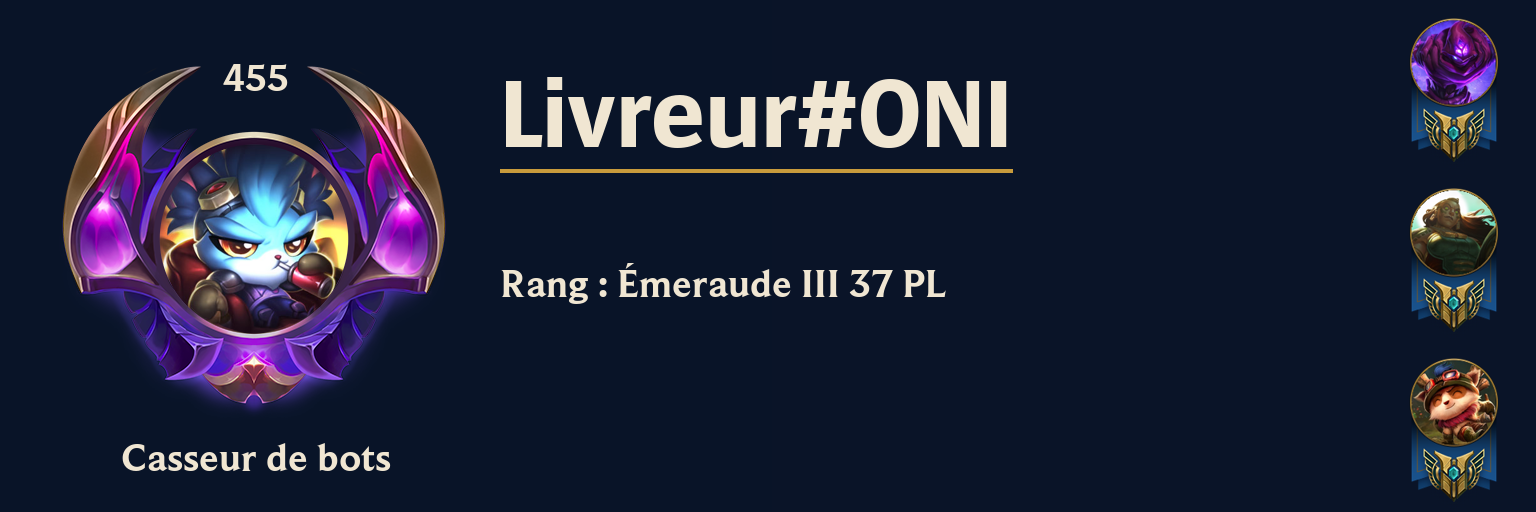
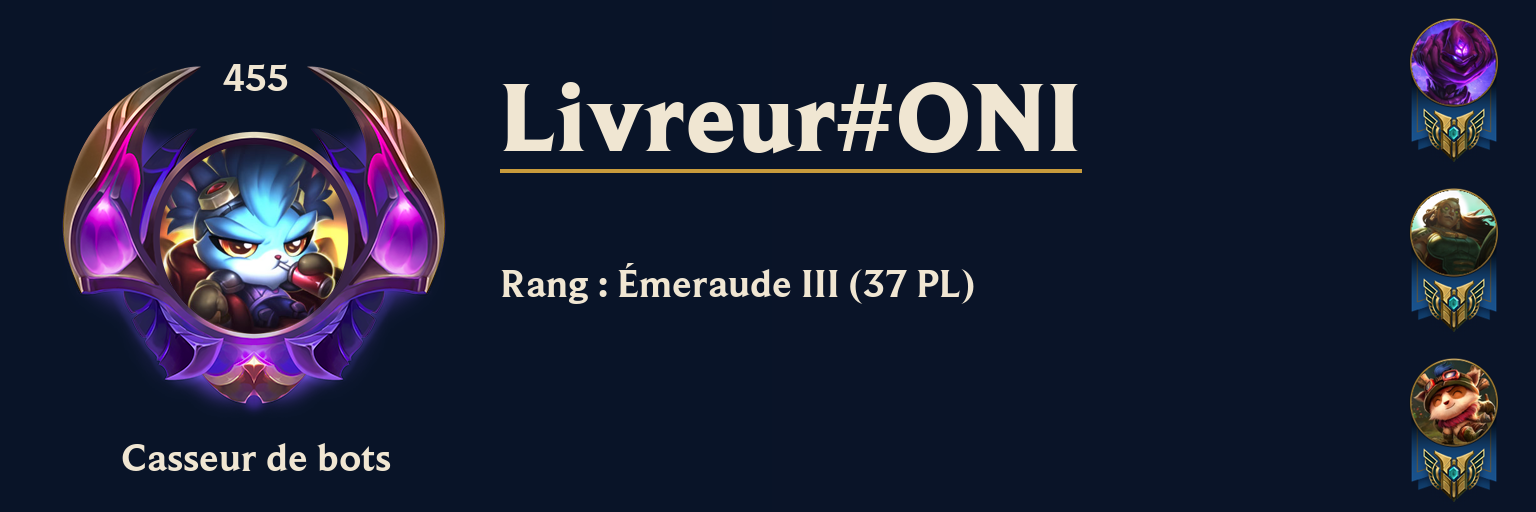
refact

Changed region(s): [[0.3125, 0.1562, 0.7188, 0.3438], [0.5312, 0.5312, 0.6562, 0.5938]]

diff --git a/LCG/views.py b/LCG/views.py
@@ -1,5 +1,7 @@
 import math
 import random
+
+from LCG import Exceptions
 from .app import app
 from flask import flash, render_template, redirect, url_for, send_file
 from flask import request,redirect, url_for
@@ -55,74 +57,66 @@ def home():
         form=f
     )
 
-@app.route('/image/<name>/<tag>.png')
-def cree_image(name,tag):
-    print(name,tag)
-    player,profil,challenges = get_data(name,tag)
-    
-    user_image = generate_image(player,profil,challenges)
-    
-    temp_image_path = f"static/league/{name}#{tag}.png"
-    user_image.save(temp_image_path)
-    
-    return send_file(temp_image_path, mimetype='image/png')
-
 @app.route("/shutdown", methods=['GET'])
 def shutdown():
     os.kill(os.getpid(), signal.SIGINT)
     return jsonify({ "success": True, "message": "Server is shutting down..." })
 
-def get_data(name,tag):
-    player_url = f"https://europe.api.riotgames.com/riot/account/v1/accounts/by-riot-id/{name}/{tag}?api_key={riot_key}"
-    response = requests.get(player_url)
-    player_data = response.json()
+@app.route('/image/<name>/<tag>.png')
+def cree_image(name:str,tag:str) -> Image:
+    print(name,tag)
+    riot,summoner,challenges = get_data(name,tag)
+    
+    user_image =  generate_image(riot,summoner,challenges)
+    
+    image_path = f"static/league/{riot['gameName']}#{riot['tagLine']}.png"
+    user_image.save(image_path)
+    
+    return send_file(image_path,mimetype='image/png')
 
-    profil_url = f"https://euw1.api.riotgames.com/lol/summoner/v4/summoners/by-puuid/{player_data['puuid']}?api_key={riot_key}"
-    response = requests.get(profil_url)
-    profil_data = response.json()
+def get_data(name:str,tag:str):
+    riot_url = f"https://europe.api.riotgames.com/riot/account/v1/accounts/by-riot-id/{name}/{tag}?api_key={riot_key}"
+    riot_data = requests.get(riot_url).json()
 
-    challenges_url = f"https://euw1.api.riotgames.com/lol/challenges/v1/player-data/{player_data['puuid']}?api_key={riot_key}"
-    response = requests.get(challenges_url)
-    challenges_data = response.json()
+    summoner_url = f"https://euw1.api.riotgames.com/lol/summoner/v4/summoners/by-puuid/{riot_data['puuid']}?api_key={riot_key}"
+    summoner_data = requests.get(summoner_url).json()
 
-    return player_data,profil_data,challenges_data
+    challenges_url = f"https://euw1.api.riotgames.com/lol/challenges/v1/player-data/{riot_data['puuid']}?api_key={riot_key}"
+    challenges_data = requests.get(challenges_url).json()
 
-def get_titre(id):
-    if id == "":
+    return riot_data,summoner_data,challenges_data
+
+def get_titre(id_titre) -> str:
+    if id_titre == "":
         return ""
     titres = requests.get("https://raw.communitydragon.org/latest/plugins/rcp-be-lol-game-data/global/fr_fr/v1/challenges.json").json()["titles"]
-    for t in titres:
-        if int(titres[t]['itemId']) == int(id):
-            return titres[t]['name']
-    return ""
+    for t in titres.values():
+        if t['itemId'] == int(id_titre):
+            return t['name']
+    raise Exceptions.TitrePasDansBD()
         
-def get_rang(id_joueur):
-    if id_joueur == "":
-        return "Non classé"
+def get_rang(id_joueur:int) -> str:
     classes = requests.get(f"https://euw1.api.riotgames.com/lol/league/v4/entries/by-summoner/{id_joueur}?api_key={riot_key}").json()
     for c in classes:
         if c['queueType'] == "RANKED_SOLO_5x5":
-            return f"{rang_trad[c['tier']]} {c['rank']} {c['leaguePoints']} PL"
+            return f"{rang_trad[c['tier']]} {c['rank']} ({c['leaguePoints']} PL)"
     return "Non classé"
 
-def round_image(image:Image, transparent:bool=False):
+def round_image(image:Image) -> Image:
     mask = Image.new("L", image.size, 0)
     draw = ImageDraw.Draw(mask)
     draw.ellipse((0, 0, image.width, image.height), fill=255)
-    if transparent:
-        result = Image.new("RGBA", image.size, (255,255,255,0))
-    else:
-        result = Image.new("RGB", image.size, (255,255,255))
+    result = Image.new("RGBA", image.size, (255,255,255,0))
     result.paste(image,mask=mask)
     return result
 
-def get_champions(id_joueur, limit=3):
+def get_champions(id_joueur:int, limit:int=3) -> list[Image.Image]:
     champions = requests.get(f"https://euw1.api.riotgames.com/lol/champion-mastery/v4/champion-masteries/by-summoner/{id_joueur}?api_key={riot_key}").json()[:limit]
     result = []
 
     for c in champions:
         lien = f"https://cdn.communitydragon.org/latest/champion/{c['championId']}/tile"
-        image_champ = round_image(Image.open(requests.get(lien, stream=True).raw).resize((105,105)),True)
+        image_champ = round_image(Image.open(requests.get(lien, stream=True).raw).resize((105,105)))
 
         lien = f"https://raw.communitydragon.org/latest/plugins/rcp-fe-lol-champion-details/global/default/cdp-prog-mastery-{c['championLevel']}.png"
         image_maitrise = Image.open(requests.get(lien, stream=True).raw)
@@ -135,7 +129,6 @@ def get_champions(id_joueur, limit=3):
     return result
 
 def generate_gradient(colour1: str, colour2: str, width: int, height: int) -> Image:
-    """Generate a vertical gradient."""
     left = Image.new('RGB', (width, height), colour1)
     right = Image.new('RGB', (width, height), colour2)
     mask = Image.new('L', (width, height))
@@ -143,23 +136,21 @@ def generate_gradient(colour1: str, colour2: str, width: int, height: int) -> Im
     for x in range(width):
         mask_data.append(int(255 * (x / width)))
     mask_data.extend(mask_data*(height-1))
-    print(len(mask_data))
     mask.putdata(mask_data)
     left.paste(right, (0, 0), mask)
     return left
 
-def generate_image(player_data,profil_data,challenges_data):
-    
+def generate_image(riot_data:dict,summoner_data:dict,challenges_data:dict) -> Image:
+    beaufort = ImageFont.truetype("static/fonts/BeaufortForLoL-TTF/BeaufortforLOL-Bold.ttf", 40)
+    beaufort_titre = ImageFont.truetype("static/fonts/BeaufortForLoL-TTF/BeaufortforLOL-Heavy.ttf", 100)
+
     width, height = (1536, 512)
     image = generate_gradient("#091428","#0A1428",width,height)
     draw = ImageDraw.Draw(image)
-    
-    arialrounded = ImageFont.truetype("static/fonts/BeaufortForLoL-TTF/BeaufortforLOL-Bold.ttf", 40)
-    impact = ImageFont.truetype("static/fonts/Spiegel-TTF/Spiegel_TT_Bold.ttf", 100)
-    
-    url_icone = f"https://cdn.communitydragon.org/latest/profile-icon/{profil_data['profileIconId']}"
+
+    url_icone = f"https://cdn.communitydragon.org/latest/profile-icon/{summoner_data['profileIconId']}"
     icone = Image.open(requests.get(url_icone, stream=True).raw)
-    icone = round_image(icone.resize((190,190)),True)
+    icone = round_image(icone.resize((190,190)))
     image.paste(icone,(159,144),icone)
 
     url_bordure = f"https://raw.communitydragon.org/latest/plugins/rcp-fe-lol-static-assets/global/default/images/uikit/themed-borders/theme-{math.floor(challenges_data['preferences']['prestigeCrestBorderLevel']//25)+1}-border.png"
@@ -167,20 +158,20 @@ def generate_image(player_data,profil_data,challenges_data):
     image.paste(bordure,(0,0),bordure)
 
     titre = f"{get_titre(challenges_data['preferences']['title'])}"
-    draw.text((256-draw.textlength(titre, arialrounded)/2, 430), titre, fill="#F0E6D2", align="center", font=arialrounded)
+    draw.text((256-draw.textlength(titre, beaufort)/2, 430), titre, fill="#F0E6D2", align="center", font=beaufort)
 
-    niveau = f"{profil_data['summonerLevel']}"
-    draw.text((256-draw.textlength(niveau, arialrounded)/2, 50), niveau, fill="#F0E6D2", font=arialrounded)
+    niveau = f"{summoner_data['summonerLevel']}"
+    draw.text((256-draw.textlength(niveau, beaufort)/2, 50), niveau, fill="#F0E6D2", font=beaufort)
 
-    pseudo = f"{player_data['gameName']}#{player_data['tagLine']}"
-    draw.text((500, 50), pseudo, fill="#F0E6D2", font=impact)
+    pseudo = f"{riot_data['gameName']}#{riot_data['tagLine']}"
+    draw.text((500, 50), pseudo, fill="#F0E6D2", font=beaufort_titre)
 
-    draw.text((500, 256), f"Rang : {get_rang(profil_data['id'])}", fill="#F0E6D2", font=arialrounded)
+    draw.text((500, 256), f"Rang : {get_rang(summoner_data['id'])}", fill="#F0E6D2", font=beaufort)
     counter = 10
-    for i in get_champions(profil_data['id']):
+    for i in get_champions(summoner_data['id']):
         image.paste(i, (width-130,counter),i)
         counter+=170
-    draw.line(((500, 170), (500+draw.textlength(pseudo,impact), 170)), "#C89B3C", width=4)
+    draw.line(((500, 170), (500+draw.textlength(pseudo,beaufort_titre), 170)), "#C89B3C", width=4)
 
     return image
 

diff --git a/LCG/Exceptions.py b/LCG/Exceptions.py
@@ -1,0 +1,3 @@
+class TitrePasDansBD(Exception):
+    def __init__(self):
+        self.message = "L'ID du titre n'est pas dans la BD à l'URL : 'https://raw.communitydragon.org/latest/plugins/rcp-be-lol-game-data/global/fr_fr/v1/challenges.json'"
